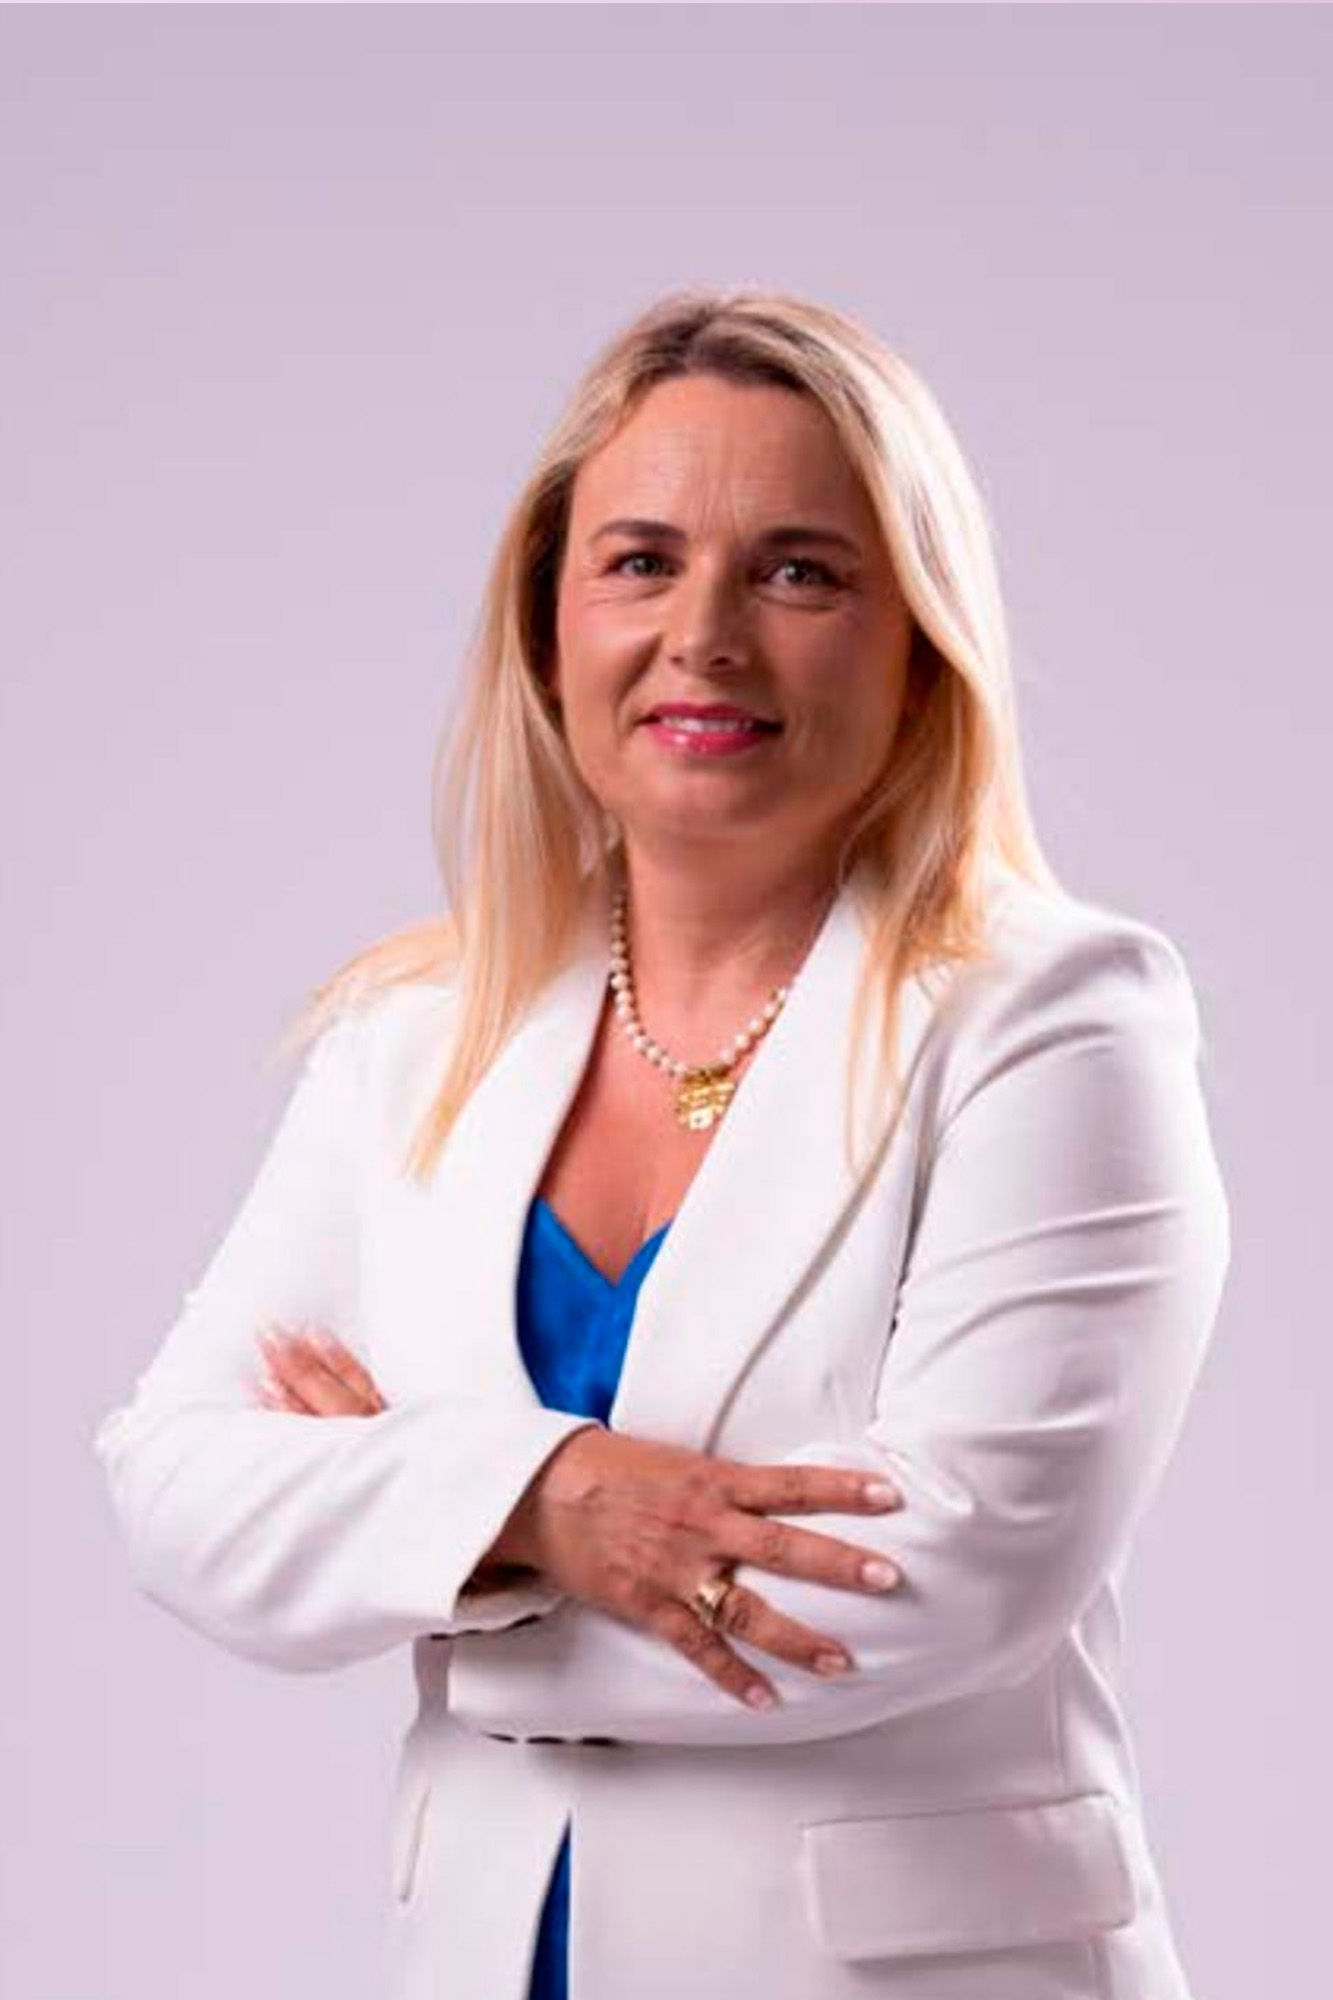
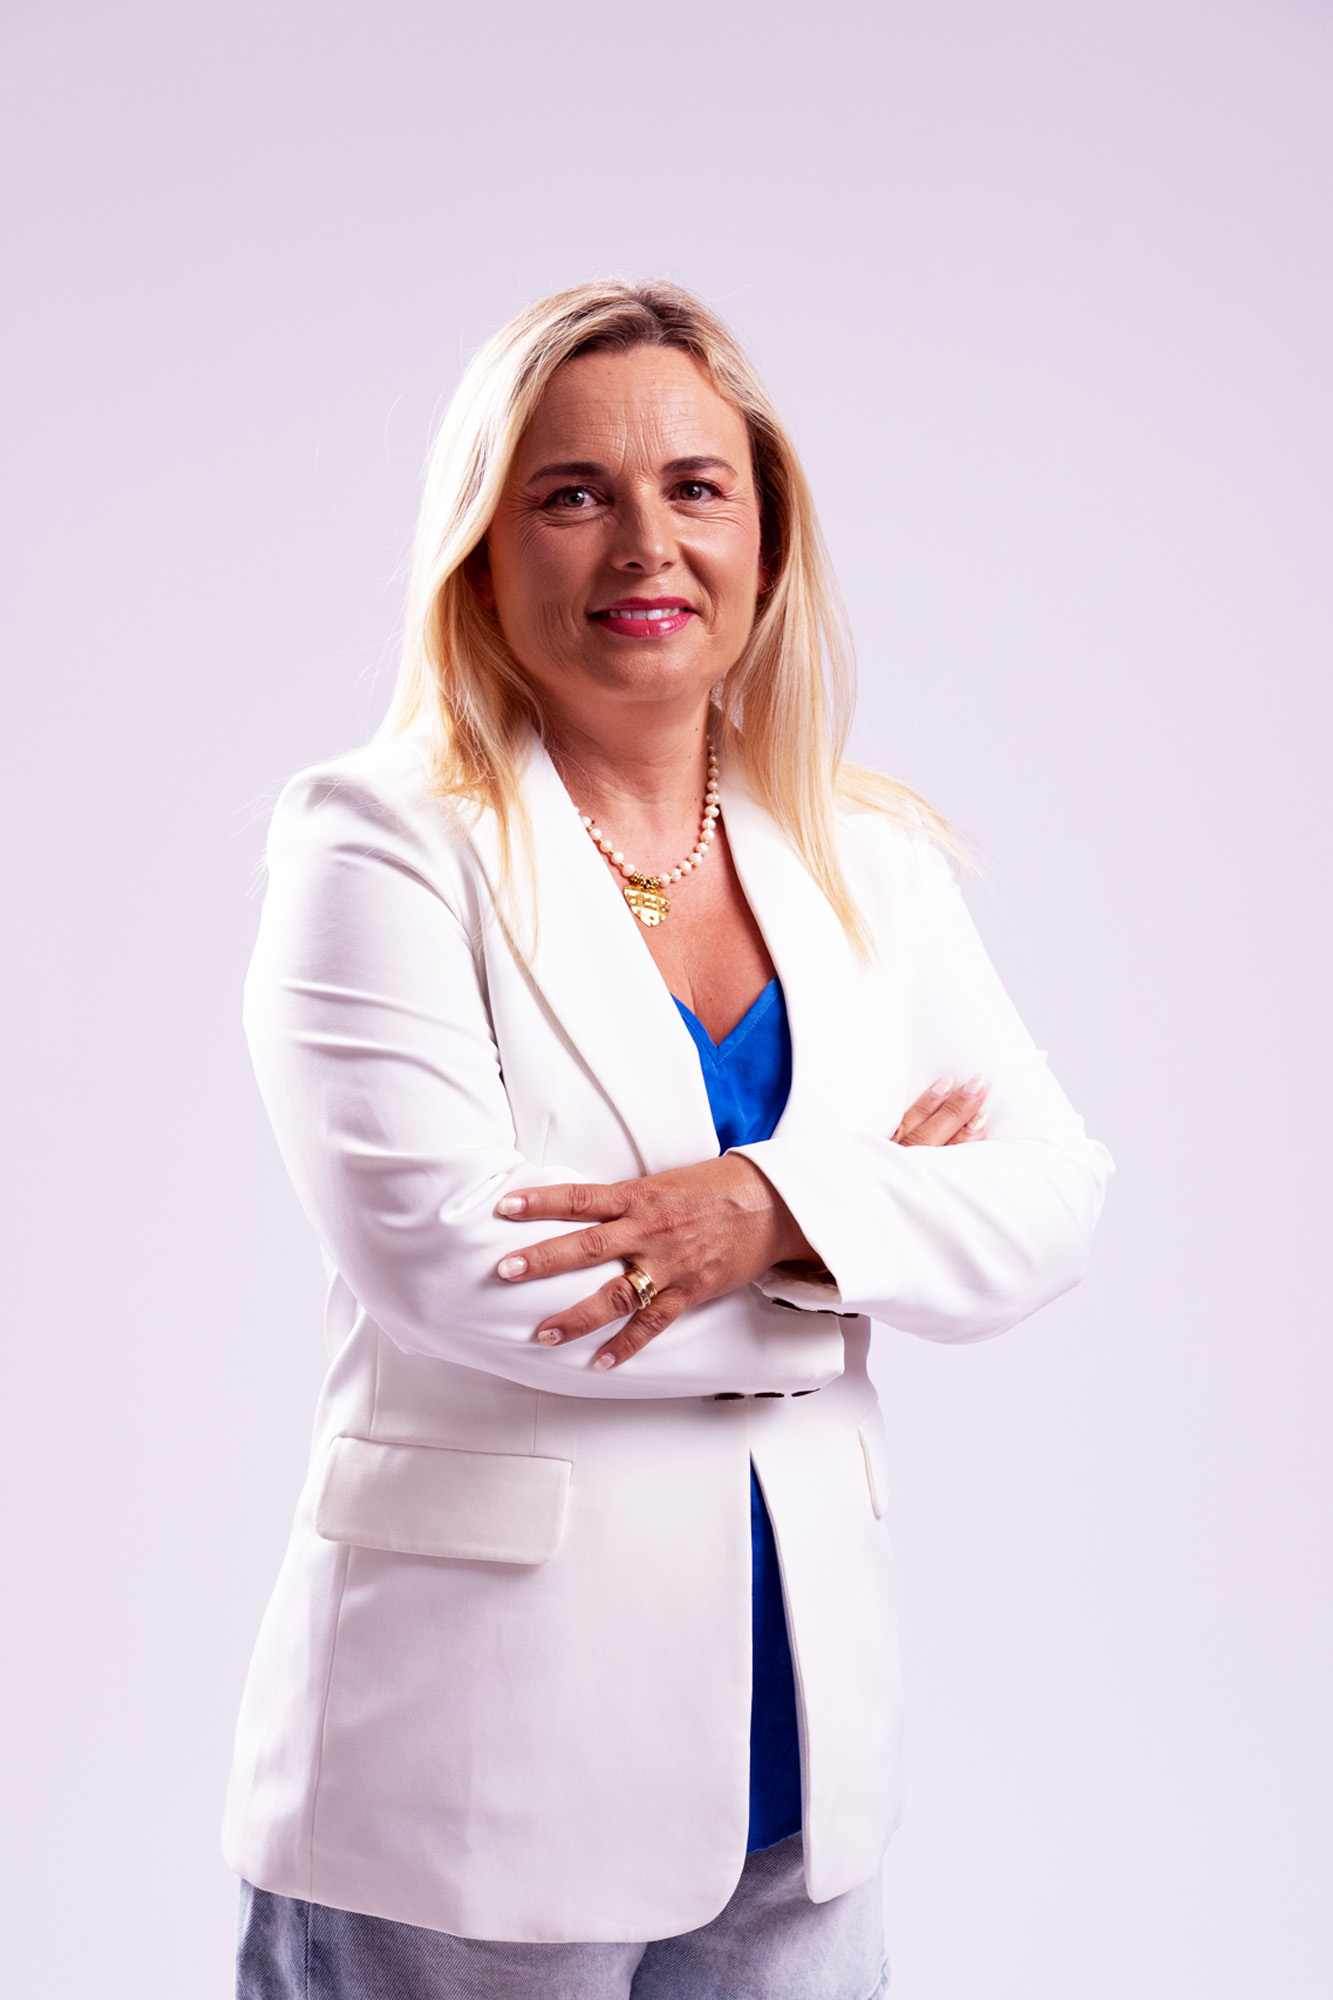
atualização de fotos dos candidatos

diff --git a/src/components/Program.tsx b/src/components/Program.tsx
@@ -89,13 +89,13 @@ const Program = () => {
       name: 'Faro (Sé e São Pedro)',
       candidate: 'Bruno Lage',
       priorities: ['Reabilitação urbana', 'Comércio local', 'Turismo sustentável'],
-      image: '/images/candidatos/Bruno_Lage_01.jpg' // Adicionar campo de imagem
+      image: '/images/candidatos/Bruno_Lage_02.jpg' // Adicionar campo de imagem
     },
     {
       name: 'Montenegro',
       candidate: 'Virgínia Alpestana',
       priorities: ['Mobilidade', 'Espaços verdes', 'Segurança'],
-      image: '/images/candidatos/Virginia_Alpestana_01.png' // Adicionar campo de imagem
+      image: '/images/candidatos/Virginia_Alpestana_01.jpg' // Adicionar campo de imagem
     },
     {
       name: 'Santa Bárbara de Nexe',
@@ -113,7 +113,7 @@ const Program = () => {
       name: 'Conceição',
       candidate: 'João Ferradeira',
       priorities: ['Habitação social', 'Transportes', 'Cultura local'],
-      image: '/images/candidatos/Joao_Ferradeira_01.jpg' // Adicionar caminho da imagem para Patrícia Cadete
+      image: '/images/candidatos/Joao_Ferradeira_02.jpg' // Adicionar caminho da imagem para Patrícia Cadete
     }
   ];
 
